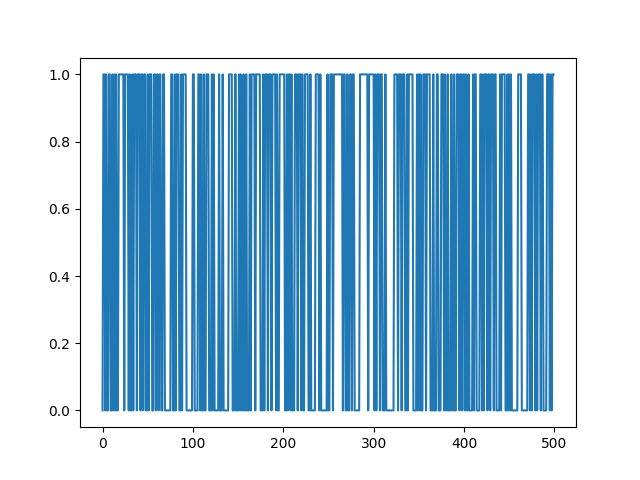
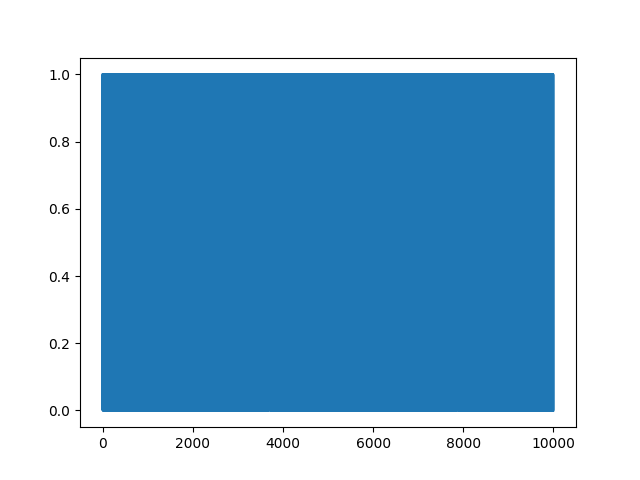
update rl with logging

diff --git a/lab3/reinforcement_agent.py b/lab3/reinforcement_agent.py
@@ -17,7 +17,7 @@ def unhash_list(l):
 class NimReinforcementAgent:
     """An agent that learns to play Nim through reinforcement learning."""
 
-    def __init__(self, num_rows: int, epsilon: float = 0.8, alpha: float = 0.5, gamma: float = 0.8):
+    def __init__(self, num_rows: int, epsilon: float = 0.3, alpha: float = 0.1, gamma: float = 0.9):
         """Initialize agent."""
         self.num_rows = num_rows
         self.epsilon = epsilon
@@ -43,7 +43,7 @@ class NimReinforcementAgent:
 
     def set_Q(self, state: str, action: tuple, value: float):
         """Set Q-value for state and action."""
-        print("Setting Q for state: {} and action: {} to value: {}".format(state, action, value))
+        # print("Setting Q for state: {} and action: {} to value: {}".format(state, action, value))
         self.Q[(state, action)] = value
 
     def get_max_Q(self, state: Nim):
@@ -101,7 +101,7 @@ class NimReinforcementAgent:
             self.set_Q(hash_list(self.previous_state.rows), self.previous_action, reward)
         else:
             # If the game is not over, then it sets the expected value of the action in the previous state to be the reward, plus the average value of the actions in the new state.
-            self.set_Q(hash_list(self.previous_state.rows), self.previous_action, reward + self.gamma * self.get_average_Q(self.current_state))
+            self.set_Q(hash_list(self.previous_state.rows), self.previous_action, self.get_Q(self.previous_action, self.previous_action) + self.alpha * reward + self.gamma * self.get_max_Q(self.current_state) - self.get_Q(self.previous_state, self.previous_action))
 
             # self.q[state][action] = self.q[state][action] + learning_rate * (reward + discount_factor * max(self.q[new_state]) - self.q[state][action])
             # self.set_Q(hash_list(self.previous_state.rows), self.previous_action, self.get_Q(self.previous_state, self.previous_action) + self.alpha * (reward + self.gamma * self.get_max_Q(self.current_state) - self.get_Q(self.previous_state, self.previous_action)))
@@ -119,18 +119,18 @@ class NimReinforcementAgent:
         # # print("New value: {}".format(new_value))
         # self.set_Q(*new_value)
 
-    def calculate_reward(self, state: Nim):
-        """Return reward for state."""
-        if state.goal():
-            return 1
-        else:
-            return -1
+    def print_best_action_for_each_state(self):
+        for state in self.Q:
+            print("State: {}".format(state[0]))
+            nim = Nim(3)
+            nim.rows = unhash_list(state[0])
+            print("Best action: {}".format(self.choose_action(nim)))
 
     def learn_play_random(self, random_agent):
         """Train agent by playing against a random agent."""
         agent_wins = 0
         winners = []
-        for episode in range(500):
+        for episode in range(10000):
             nim = Nim(num_rows=3)
             self.current_state = nim
             self.previous_state = None
@@ -142,12 +142,12 @@ class NimReinforcementAgent:
                     self.previous_state = deepcopy(self.current_state)
                     # print("Current state: {}".format(self.current_state.rows))
                     self.previous_action = self.get_action(self.current_state)
-                    # if self.previous_action is None:
-                    #     # make random move if no possible actions
-                    #     # print("Making random move")
-                    #     self.current_state.nimming_remove(*random.choice(self.get_possible_actions(self.current_state)))
-                    # else:
-                        # print("RL action: {}".format(self.previous_action))
+                    if self.previous_action is None:
+                        # make random move if no possible actions
+                        # print("Making random move")
+                        self.current_state.nimming_remove(*random.choice(self.get_possible_actions(self.current_state)))
+                    else:
+                        print("RL action: {}".format(self.previous_action))
                     self.current_state.nimming_remove(*self.previous_action)
                     player = 1
                 else:
@@ -163,10 +163,10 @@ class NimReinforcementAgent:
                     if winner == 0:
                         print("Agent won")
                         agent_wins += 1
-                        reward = 1
+                        reward = -1
                     else:
                         print("Random won")
-                        reward = -1
+                        reward = 1
                     winners.append(winner)
                     self.update_Q(reward, self.current_state.goal())
                     break
@@ -177,7 +177,7 @@ class NimReinforcementAgent:
         self.epsilon = self.epsilon - 10e-5 if self.epsilon > 0.1 else 0.1
 
         print("Agent won {} out of {} games".format(agent_wins, 5000))
-        print(self.Q)
+        self.print_best_action_for_each_state()
         return winners
 
     def choose_action(self, state: Nim):
@@ -192,7 +192,6 @@ class NimReinforcementAgent:
                     best_action = (r, o)
         if best_action is None:
             print("Making random move")
-            print(self.Q)
             # make random move if no possible actions
             return random.choice(self.get_possible_actions(state))
         else:
@@ -202,9 +201,9 @@ class NimReinforcementAgent:
 rounds = 20
 minmax_wins = 0
 
-nim = Nim(num_rows=4)
+nim = Nim(num_rows=5)
 print(nim.rows)
-agent = NimReinforcementAgent(num_rows=4)
+agent = NimReinforcementAgent(num_rows=5)
 random_agent = BrilliantEvolvedAgent()
 agent.init_reward(nim)
 winners = agent.learn_play_random(random_agent)
@@ -214,26 +213,26 @@ winners = agent.learn_play_random(random_agent)
 plt.plot(winners)
 plt.savefig("winners.png")
 
-# for i in range(rounds):
-#     nim = Nim(num_rows=5)
-#     player = 1
-#     while not nim.goal():
-#         if player == 0:
-#             move = agent.choose_action(nim)
-#             print(f"Reinforcement move: Removed {move[1]} objects from row {move[0]}")
-#             nim.nimming_remove(*move)
-#             print(nim.rows)
-#         else:
-#             move = random_agent.random_agent(nim)
-#             print(f"Random move {random_agent.num_moves}: Removed {move[1]} objects from row {move[0]}")
-#             nim.nimming_remove(*move)
-#             print(nim.rows)
-#         player = 1 - player
+for i in range(rounds):
+    nim = Nim(num_rows=5)
+    player = 1
+    while not nim.goal():
+        if player == 0:
+            move = agent.choose_action(nim)
+            print(f"Reinforcement move: Removed {move[1]} objects from row {move[0]}")
+            nim.nimming_remove(*move)
+            print(nim.rows)
+        else:
+            move = random_agent.random_agent(nim)
+            print(f"Random move {random_agent.num_moves}: Removed {move[1]} objects from row {move[0]}")
+            nim.nimming_remove(*move)
+            print(nim.rows)
+        player = 1 - player
 
-#     winner = 1 - player
-#     if winner == 0:
-#         minmax_wins += 1
-#     # player that made the last move wins
-#     print(f"Player {winner} wins in round {i+1}!")
+    winner = 1 - player
+    if winner == 0:
+        minmax_wins += 1
+    # player that made the last move wins
+    print(f"Player {winner} wins in round {i+1}!")
 
-# print(f"Reinforcement agent wins {minmax_wins} out of {rounds} rounds")
+print(f"Reinforcement agent wins {minmax_wins} out of {rounds} rounds")

diff --git a/lab3/evolved_nim.py b/lab3/evolved_nim.py
@@ -245,12 +245,30 @@ class BrilliantEvolvedAgent:
         stats = self.statistics(nim)
         return random.choice(stats['possible_moves'])
 
+    def dumb_agent(self, nim: Nim):
+        '''
+        Agent that takes the smallest possible move
+        '''
+        stats = self.statistics(nim)
+        if stats['num_active_rows'] % 2 == 0:
+            return random.choice(stats['possible_moves'])
+        else:
+            row = stats['shortest_row']
+            return (row, 1)
+
     def aggressive_agent(self, nim: Nim):
         '''
         Agent that takes the largest possible move
         '''
         stats = self.statistics(nim)
-        return max(stats['possible_moves'], key=lambda x: x[1])
+        if stats['num_active_rows'] % 2 == 0:
+            return random.choice(stats['possible_moves'])
+        else:
+            row = stats['longest_row']
+            return (row, nim.rows[row])
+
+        # stats = self.statistics(nim)
+        # return max(stats['possible_moves'], key=lambda x: x[1])
 
     def calculate_fitness(self, genome):
         '''
